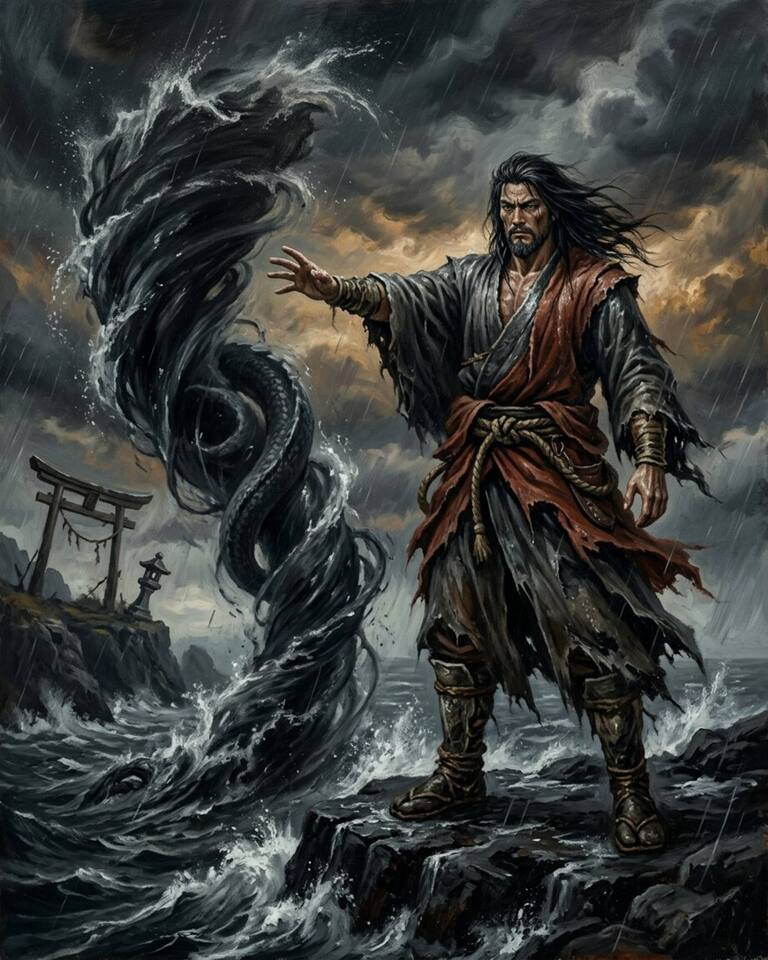
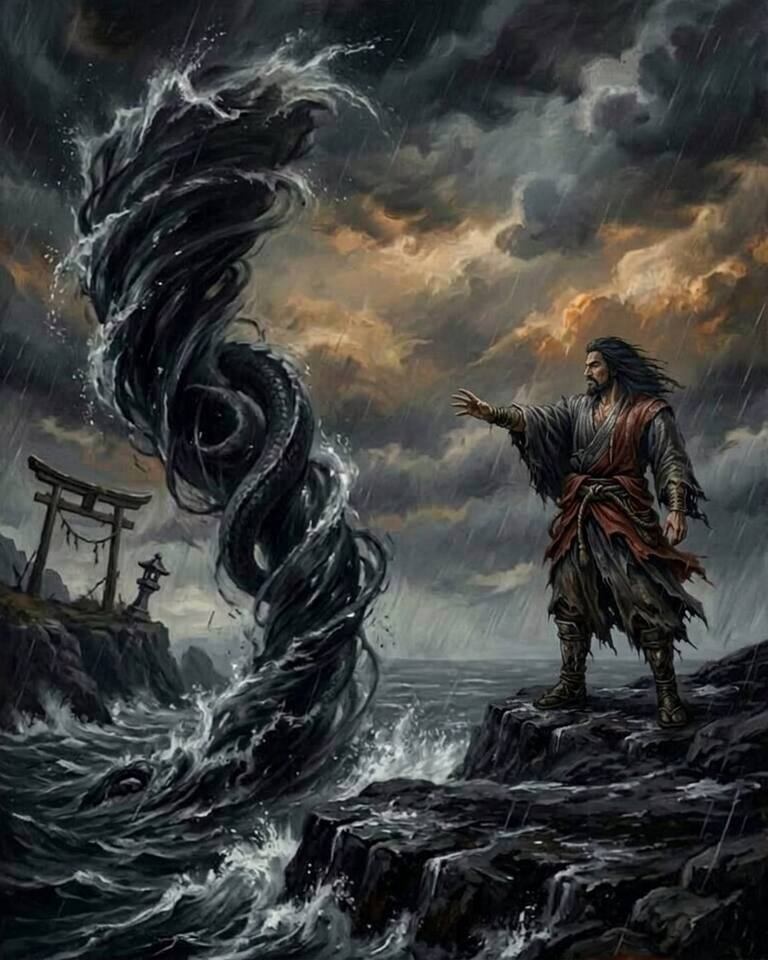
Ajuster le Gardien, la Vampire des braises et Susanoo

diff --git a/tests/rpg-defenseur.test.js b/tests/rpg-defenseur.test.js
@@ -7,8 +7,8 @@ import { rpgPvpAppliquer } from '../src/games/rpgPvp.js';
 import { RPG_REVELATIONS_PAR_ETAGE } from '../src/games/rpgCollection.js';
 import { existsSync } from 'node:fs';
 
-function scene() {
-  const duel = rpgNouveauDuel({ joueurDeck: [], sorcierDeck: [], rng: () => 0.5 });
+function scene(rng = () => 0.5) {
+  const duel = rpgNouveauDuel({ joueurDeck: [], sorcierDeck: [], rng });
   duel.phase = 'principale'; duel.tour = 'joueur';
   duel.mulliganFait = { joueur: true, sorcier: true };
   duel.joueur.creatures.push({ id: 'a', carteId: 'feriel', name: 'Fériel', coupRapide: true, ready: true, attaquee: false, atk: 3, pv: 3 });
@@ -117,11 +117,15 @@ test('la fiche et la carte sur table montrent la nouvelle icône Défenseur', as
 test('les nouveaux Défenseurs Braise et Sable sont jouables et disponibles', async () => {
   const { COLLECTION_DEPART } = await import('../src/games/rpgCollection.js');
   for (const [id, element, cost, atk, def, provocation] of [
-    ['gardien-de-la-porte-ardente', 'braise', 3, 2, 3, true],
+    ['gardien-de-la-porte-ardente', 'braise', 3, 2, 4, true],
     ['gardienne-des-portes-de-sable', 'sable', 2, 1, 4, false],
   ]) {
     const carte = cardById(id);
     assert.deepEqual([carte.element, carte.cost, carte.atk, carte.def, carte.defenseur, !!carte.provocation], [element, cost, atk, def, true, provocation]);
+    if (id === 'gardien-de-la-porte-ardente') {
+      assert.equal(carte.riposteAttaqueCiblee, 1);
+      assert.match(carte.text, /Attaque ciblée.*1 dégât/);
+    }
     assert.ok(COLLECTION_DEPART.includes(id));
     assert.ok(existsSync(`public/cards/${id}.jpg`));
     assert.ok(effetsDetailles(carte).pastilles.some(p => p.cle === 'defenseur'));
@@ -131,6 +135,8 @@ test('les nouveaux Défenseurs Braise et Sable sont jouables et disponibles', as
       d[cote].main.push(id);
       const r = rpgJouerCreature(d, cote, id);
       assert.ok(r.ok, `${id}: ${r.raison}`);
+      assert.equal(r.entite.atk, atk, `${id} : attaque sur le plateau`);
+      assert.equal(r.entite.pv, def, `${id} : points de vie sur le plateau`);
       assert.equal(r.entite.defenseur, true);
       assert.equal(!!r.entite.provocation, provocation);
     }
@@ -147,6 +153,52 @@ test('les nouveaux Défenseurs protègent les autres créatures des Attaques cib
     assert.equal(attaquer(d, 'normal').raison, 'defenseur');
     assert.equal(attaquer(d, defenseur.id).ok, true);
   }
+});
+
+const poserGardienBraise = (duel) => {
+  duel.sorcier.creatures = [];
+  duel.sorcier.mana = Object.fromEntries(RPG_ELEMENTS.map((element) => [element, 30]));
+  duel.sorcier.main.push('gardien-de-la-porte-ardente');
+  return rpgJouerCreature(duel, 'sorcier', 'gardien-de-la-porte-ardente').entite;
+};
+
+test('le Gardien 2/4 inflige exactement 1 dégât à la créature qui le vise avec Attaque ciblée', () => {
+  const duel = scene();
+  const gardien = poserGardienBraise(duel);
+  const attaquant = duel.joueur.creatures[0];
+  assert.equal(attaquer(duel, gardien.id).ok, true);
+  assert.equal(gardien.pv, 1, 'il encaisse la frappe de 3 sur ses 4 PV');
+  assert.equal(attaquant.pv, 2, 'la réplique retire 1 PV, pas les 2 ATQ du Gardien');
+  assert.match(duel.log.join(' '), /Gardien de la porte ardente réplique à l’Attaque ciblée.*1 dégât/);
+});
+
+test('le Gardien réplique même si l’Attaque ciblée rate ou le détruit', () => {
+  const rate = scene(() => 0);
+  const gardienRate = poserGardienBraise(rate);
+  const attaquantRate = rate.joueur.creatures[0];
+  assert.equal(attaquer(rate, gardienRate.id).ok, true);
+  assert.equal(gardienRate.pv, 4);
+  assert.equal(attaquantRate.pv, 2, 'être ciblé suffit à déclencher la réplique');
+
+  const mortel = scene();
+  const gardienMortel = poserGardienBraise(mortel);
+  const attaquantMortel = mortel.joueur.creatures[0];
+  attaquantMortel.atk = 5;
+  assert.equal(attaquer(mortel, gardienMortel.id).ok, true);
+  assert.ok(!mortel.sorcier.creatures.includes(gardienMortel));
+  assert.equal(attaquantMortel.pv, 2, 'la cible détruite répond quand même');
+});
+
+test('la réplique du Gardien ne part ni sur une magie ni sur un combat bloqué ordinaire', () => {
+  const duel = scene();
+  const gardien = poserGardienBraise(duel);
+  const attaquant = duel.joueur.creatures[0];
+  rpgBlesserCreature(duel, 'sorcier', gardien.id, 1, ['sable'], null, 'magie');
+  assert.equal(attaquant.pv, 3);
+  attaquant.coupRapide = false;
+  attaquant.atk = 1;
+  assert.equal(rpgLancerAttaque(duel, 'joueur', [attaquant.id], { [attaquant.id]: [gardien.id] }).ok, true);
+  assert.equal(attaquant.pv, 1, 'seuls les 2 dégâts du blocage normal sont subis');
 });
 
 test('le gardien Braise attire un bloqueur quand il attaque, sans obligation d’attaquer', () => {

diff --git a/src/games/rpgDuel.js b/src/games/rpgDuel.js
@@ -2508,6 +2508,30 @@ function riposteDeContreAttaque(duel, defenseur, source) {
   return true;
 }
 
+/** La réplique imprimée du Gardien de la porte ardente ne vaut qu'une blessure :
+ * elle se déclenche à la désignation par Attaque ciblée, même si la frappe rate
+ * ou détruit le Gardien, et ne répond jamais aux sorts ni au combat ordinaire. */
+function riposteSurAttaqueCiblee(duel, defenseur, coteAttaquant, attaquantId) {
+  // Relire la carte pour que les créatures déjà sauvegardées gagnent aussi
+  // cette capacité, sans migration de leurs entités en jeu.
+  const carte = duelCardById(defenseur?.carteId);
+  const force = Math.max(0, Number(carte?.riposteAttaqueCiblee) || 0);
+  const attaquant = duel[coteAttaquant].creatures.find((entite) => entite.id === attaquantId);
+  if (!force || !attaquant) return false;
+  const coteDefenseur = autre(coteAttaquant);
+  presenterEffet(duel, coteDefenseur, defenseur.carteId);
+  journaliserAnimationCombat(duel, {
+    type: 'contre-attaque',
+    depuis: { type: 'creature', cote: coteDefenseur, entiteId: defenseur.id },
+    cible: { type: 'creature', cote: coteAttaquant, entiteId: attaquant.id },
+  });
+  duel.log.push(`${defenseur.name} réplique à l’Attaque ciblée de ${attaquant.name} : ${force} dégât${force > 1 ? 's' : ''}.`);
+  if (!rpgEstProtegee(attaquant, cardColors(carte))
+    && paradeZoneBloque(duel, attaquant, 'capacite', coteAttaquant, coteDefenseur)) return true;
+  rpgBlesserCreature(duel, coteAttaquant, attaquant.id, force, cardColors(carte), null, 'capacite', defenseur.carteId);
+  return true;
+}
+
 /**
  * La Contre-attaque d'un effet ciblé : la créature adverse désignée par une
  * capacité riposte sur la créature source, celle d'un sort sur le sorcier qui
@@ -7471,19 +7495,19 @@ export function rpgLancerAttaque(
   for (const traque of traquesCombat) {
     duel.log.push(`Traque : ${traque.attaquant} gagne +${traque.bonus}/+0 contre ${traque.cible} pour ce combat.`);
   }
-  // Contre-attaque : la cible d’une attaque ciblée rend le coup, qu'elle ait
-  // encaissé la frappe ou qu'elle l'ait esquivée — seule une frappe RATÉE ne
-  // lui laisse rien à rendre. Même une cible détruite rend le coup avec son
-  // attaque au moment de la frappe. La riposte est résolue après
-  // le journal de la frappe rapide, pour que le récit se lise dans l'ordre.
+  // Le Gardien répond dès qu'il est désigné, même sur une frappe ratée ou
+  // mortelle. La Contre-attaque ordinaire, elle, exige un coup réellement porté
+  // (ou esquivé). Les deux se lisent après la frappe dans le journal.
   for (const frappe of frappesRapides) {
-    if (frappe.annule || frappe.rate) continue;
-    const coup = degatsAvantCombat.find((candidate) => candidate.rapide
-      && candidate.sourceId === frappe.attaquantId && candidate.entiteId === frappe.cibleId);
-    if (!coup?.contreAttaqueAtteinte) continue;
+    if (frappe.annule) continue;
     const defenseur = duel[adv].creatures.find((entite) => entite.id === frappe.cibleId)
       ?? (ciblesRapidesDetruites.has(frappe.cibleId) ? etatsCiblesRapides.get(frappe.cibleId) : null);
     if (!defenseur) continue;
+    riposteSurAttaqueCiblee(duel, defenseur, cote, frappe.attaquantId);
+    if (frappe.rate) continue;
+    const coup = degatsAvantCombat.find((candidate) => candidate.rapide
+      && candidate.sourceId === frappe.attaquantId && candidate.entiteId === frappe.cibleId);
+    if (!coup?.contreAttaqueAtteinte) continue;
     riposteDeContreAttaque(duel, defenseur, {
       type: 'creature', cote, entiteId: frappe.attaquantId,
     });

diff --git a/tests/rpg-vampire-braise-brulot.test.js b/tests/rpg-vampire-braise-brulot.test.js
@@ -1,12 +1,14 @@
 import test from 'node:test';
 import assert from 'node:assert/strict';
 import { cardById, RPG_ELEMENTS, cardHasPrintedType } from '../src/games/rpgCards.js';
+import { cardArt } from '../src/games/rpgCardArt.js';
 import { rpgNouveauDuel, rpgJouerCreature, rpgLancerAttaque, rpgAttaquerCreature, rpgLancerMagie, rpgBlesserCreature } from '../src/games/rpgDuel.js';
 import { resultatBlocage } from '../src/games/rpgAI.js';
 function duel() { const d=rpgNouveauDuel({joueurDeck:[],sorcierDeck:[],rng:()=>0.9}); for (const cote of ['joueur','sorcier']) d[cote].mana=Object.fromEntries(RPG_ELEMENTS.map(e=>[e,40])); return d; }
 function pose(d,c,id, cible=null, opts={}) { d[c].main.push(id); const r=rpgJouerCreature(d,c,id,cible,opts); assert.equal(r.ok,true,`${id}: ${r.raison}`); return r.entite; }
-test('Vampire des braises : 2/2 coût 2, Rapidité, Embuscade et Vampire',()=>{
- const c=cardById('vampire-des-braises'); assert.deepEqual([c.cost,c.atk,c.def,c.element,c.rapidite,c.reactionTourAdverse],[2,2,2,'braise',true,true]); assert.ok(cardHasPrintedType(c,'Vampire'));
+test('Vampire des braises : 2/2 coût 3, Rapidité, Embuscade et Vampire',()=>{
+ const c=cardById('vampire-des-braises'); assert.deepEqual([c.cost,c.atk,c.def,c.element,c.rapidite,c.reactionTourAdverse],[3,2,2,'braise',true,true]); assert.ok(cardHasPrintedType(c,'Vampire'));
+ assert.match(cardArt(c.id), /vampire-braise-souffle-v2$/, 'le nouvel art qui crache du feu contourne le cache');
 });
 test('Vampire inflige 1 dégât à chaque bloqueur avant les dégâts de combat',()=>{
  const d=duel(), a=pose(d,'joueur','vampire-des-braises'), b=pose(d,'sorcier','dune-marchante');

diff --git a/src/games/rpgCards.js b/src/games/rpgCards.js
@@ -421,9 +421,10 @@ export const CARD_KIND_LABELS = {
 export const RPG_CREATURE_CARDS = [
   {
     id: 'gardien-de-la-porte-ardente', name: 'Gardien de la porte ardente',
-    element: 'braise', cost: 3, atk: 2, def: 3, rarity: 'inhabituelle',
+    element: 'braise', cost: 3, atk: 2, def: 4, rarity: 'inhabituelle',
     typeLine: 'Créature — Humain · Gardien', defenseur: true, provocation: true,
-    text: 'Défenseur. Provocation — Quand cette créature attaque, elle doit être bloquée par au moins une créature si possible.',
+    riposteAttaqueCiblee: 1,
+    text: 'Défenseur. Provocation — Quand cette créature attaque, elle doit être bloquée par au moins une créature si possible. Quand une créature adverse le cible avec Attaque ciblée, il lui inflige 1 dégât, même si l’attaque rate ou le détruit.',
     flavor: 'Derrière lui, le brasier veille sur les derniers vivants.',
   },
   {
@@ -444,7 +445,7 @@ export const RPG_CREATURE_CARDS = [
   },
   {
     id: 'vampire-des-braises', name: 'Vampire des braises', element: 'braise',
-    cost: 2, atk: 2, def: 2, rarity: 'inhabituelle', typeLine: 'Créature — Humain et Vampire',
+    cost: 3, atk: 2, def: 2, rarity: 'inhabituelle', typeLine: 'Créature — Humain et Vampire',
     rapidite: true, reactionTourAdverse: true,
     combat: { type: 'degats-creature-combattue', amount: 1, quand: 'attaque-bloquee' },
     text: 'Embuscade — Vous pouvez jouer cette créature pendant le tour adverse. Rapidité — Elle peut attaquer le tour où elle arrive. Quand elle est bloquée : elle inflige 1 dégât à chaque créature qui la bloque avant les blessures de combat.',

diff --git a/tests/rpg-soleil-rouge.test.js b/tests/rpg-soleil-rouge.test.js
@@ -374,10 +374,10 @@ test('les seize illustrations du set et leurs refontes ont une version de cache'
   for (const carte of RPG_SOLEIL_ROUGE_CARDS) {
     const versionsSpecifiques = {
       // Cartes repeintes en huile sombre, réaliste (dérogation Souls
-      // documentée par `RPG-CARD-ART.md`). Le lot est daté par sa révision :
-      // v2 pour Susanoo et Kagutsuchi, v3 pour le second lot, v4 pour le
-      // troisième. Trois cartes du set gardent leur kaiga.
-      'susanoo': 'braise-souls-cendres-v2',
+      // documentée par `RPG-CARD-ART.md`). Susanoo porte sa révision dédiée
+      // (tempête sombre de l’image d’origine) ; Kagutsuchi reste en v2, les autres lots suivent
+      // leurs propres révisions. Trois cartes du set gardent leur kaiga.
+      'susanoo': 'braise-souls-susanoo-face-tempete-v8',
       'kagutsuchi-flamme-originelle': 'braise-souls-cendres-v2',
       'orochi': 'braise-souls-cendres-v3',
       'oni-de-la-fournaise': 'braise-souls-cendres-v3',

diff --git a/src/games/rpgCardArt.js b/src/games/rpgCardArt.js
@@ -60,7 +60,7 @@ const SET_NEIGE_SOULS_VERSION = 'neige-souls-cendres-v1';
 const SANS_TEINTE = 'sans-teinte-v1';
 
 const CARD_ART_CACHE_VERSIONS = {
-  'vampire-des-braises': 'vampire-braise-v1',
+  'vampire-des-braises': 'vampire-braise-souffle-v2',
   'sanguinaire-des-dunes': 'sanguinaire-aura-feu-v1',
   'guetteuse-des-marees': 'guetteuse-v1',
   'memoire-de-l-armurerie': 'armurerie-epique-v2',
@@ -93,7 +93,7 @@ const CARD_ART_CACHE_VERSIONS = {
   // Braise — la refonte Souls (huile sombre, réaliste) du set Soleil rouge.
   // Une révision partagée pour le lot ; Susanoo et Kagutsuchi, repeints une
   // seconde fois de zéro, portent leur propre révision.
-  'susanoo': 'braise-souls-cendres-v2',
+  'susanoo': 'braise-souls-susanoo-face-tempete-v8',
   'kagutsuchi-flamme-originelle': 'braise-souls-cendres-v2',
   'orochi': 'braise-souls-cendres-v3',
   'petit-orochi': 'petit-orochi-kaiga-couleurs-v1',

diff --git a/src/games/RPG-CARD-ART.md b/src/games/RPG-CARD-ART.md
@@ -591,7 +591,7 @@ poussiéreux. Aucune image ne porte de cadre, de marge, de texte, de
 calligraphie, de signature ni de glyphe. Les vingt-neuf peintures sont livrées
 **plein art 4:5** (1024×1280) sous leurs anciens noms de fichiers. Révisions
 de cache (`CARD_ART_CACHE_VERSIONS`), une par lot : `braise-souls-cendres-v2`
-(Susanoo, Kagutsuchi), `-v3` (Orochi, Oni, Daimyō, Tengu, Onna-musha, Fériel,
+(Kagutsuchi ; Susanoo a depuis sa révision dédiée), `-v3` (Orochi, Oni, Daimyō, Tengu, Onna-musha, Fériel,
 Ifrit al-Ahmar, Anqa, Ifrit des ergs, Sahir) et `-v4` (Cavalier, Lionne,
 Shogun promu, Kenshi, Rōnin, Hatamoto, Ashigaru, Braisier, Serment de la
 forge, Armure de cendres) et `-v5` (Tour de braise, Sabre maudit, Trait de
@@ -604,7 +604,8 @@ Montagne du Soleil rouge — un terrain, hors du lot des cartes jouées.
 Les idées et les sujets documentés du set sont conservés — mêmes créatures,
 mêmes scènes, même esprit ; seule la facture change. Susanoo et Kagutsuchi ont
 été **repeints de zéro** (composition neuve, sans référence à l'ancienne
-carte) et portent à ce titre la révision `braise-souls-cendres-v2`.
+carte) ; Kagutsuchi porte encore la révision `braise-souls-cendres-v2`, Susanoo
+une révision ultérieure où Orochi occupe le premier plan.
 
 ### Les illustrations alternatives
 
@@ -760,10 +761,12 @@ La protection et le contresort de Boualem s’appliquent aux capacités ciblées
 Sans créature ciblable déjà présente, Susanoo peut être posé sans cible.
 
 Le joueur désigne la cible dans l’interface ; l’IA privilégie une menace
-adverse. Illustration kaiga colorée dédiée `susanoo.jpg`, 1024×1280,
-version `susanoo-kaiga-couleurs-v1` : kami des tempêtes au katana sur une
-côte balayée par un vortex. Un exemplaire remplace une Onna-musha dans le
-deck Soleil rouge : toujours 40 cartes, 17 créatures, 7 magies et 16 terrains.
+adverse. L’illustration actuelle `susanoo.jpg` (768×960, révision
+`braise-souls-susanoo-face-tempete-v8`) retrouve la tempête sombre de l’image de
+base : Orochi se dessine dans le tourbillon d’eau qui monte de la mer à gauche.
+Susanoo, plus petit et plus éloigné sur la droite, se tourne et regarde vers
+cette tempête, une main tendue pour la commander. Un exemplaire remplace une Onna-musha dans
+le deck Soleil rouge : toujours 40 cartes, 17 créatures, 7 magies et 16 terrains.
 Susanoo se débloque à `sables-3`.
 
 ## Dérogation : deux armes et le serpent en photoréaliste (octobre 2026)
